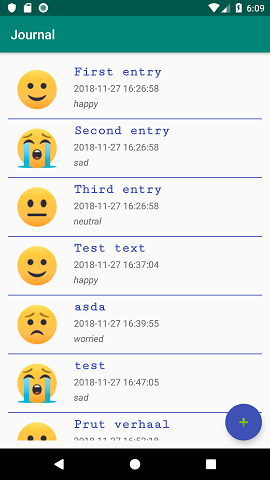
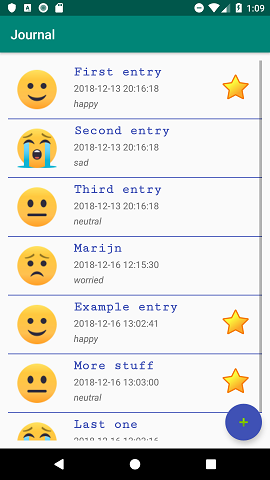
Final commit

diff --git a/app/src/main/java/com/example/marijn/journal/DetailActivity.java b/app/src/main/java/com/example/marijn/journal/DetailActivity.java
@@ -1,9 +1,13 @@
 package com.example.marijn.journal;
 
 import android.content.Intent;
+import android.content.SharedPreferences;
+import android.support.v4.content.ContextCompat;
 import android.support.v7.app.AppCompatActivity;
 import android.os.Bundle;
+import android.widget.CompoundButton;
 import android.widget.TextView;
+import android.widget.ToggleButton;
 
 /**
  * Marijn Meijering <m.h.j.meijering@uva.nl>
@@ -12,24 +16,64 @@ import android.widget.TextView;
  */
 public class DetailActivity extends AppCompatActivity {
 
+    private ToggleButton favouriteButton;
+    private String titleText, timeText;
+
     @Override
     protected void onCreate(Bundle savedInstanceState) {
         super.onCreate(savedInstanceState);
         setContentView(R.layout.activity_detail);
 
-        // Get the ID's of various TextView and an ImageView
+        // Get the ID's of various TextViews, an ImageView and a ToggleButton
         TextView title = findViewById(R.id.titleText);
         TextView content = findViewById(R.id.contentText);
         TextView timestamp = findViewById(R.id.timestampText);
         TextView mood = findViewById(R.id.moodText);
+        favouriteButton = findViewById(R.id.favouriteButton);
 
         // Retrieve the entry information from the previous activity
         Intent intent = getIntent();
 
+        titleText = intent.getStringExtra("title");
+        timeText = intent.getStringExtra("timestamp");
+
         // Set the title, content, date and mood
-        title.setText(intent.getStringExtra("title"));
+        title.setText(titleText);
         content.setText(intent.getStringExtra("content"));
-        timestamp.setText(intent.getStringExtra("timestamp"));
+        timestamp.setText(timeText);
         mood.setText(intent.getStringExtra("mood"));
+
+        // Set an on favourite change listener
+        favouriteButton.setOnCheckedChangeListener(new ProfileFavourite());
+
+        // Get a previously stored favourite boolean (title+time for a unique combination)
+        SharedPreferences prefsFav = getSharedPreferences("favourite", MODE_PRIVATE);
+        Boolean isFav = prefsFav.getBoolean((titleText + timeText).toLowerCase(), false);
+
+        // Set the previously stored favourite state
+        if (isFav) { // If this person was a favourite
+            favouriteButton.setBackgroundDrawable(ContextCompat.getDrawable(getApplicationContext(), R.drawable.yellow_star));
+
+        } else { // If this person was NOT a favourite
+            favouriteButton.setBackgroundDrawable(ContextCompat.getDrawable(getApplicationContext(), R.drawable.grey_star));
+        }
+    }
+
+    // Create an on favourite click listener
+    // With help from: https://stackoverflow.com/questions/34980309/
+    private class ProfileFavourite implements CompoundButton.OnCheckedChangeListener {
+        @Override
+        public void onCheckedChanged(CompoundButton buttonView, boolean isFavourite) {
+            if (isFavourite) { // If favourited
+                favouriteButton.setBackgroundDrawable(ContextCompat.getDrawable(getApplicationContext(), R.drawable.yellow_star));
+            } else { // If unfavourited
+                favouriteButton.setBackgroundDrawable(ContextCompat.getDrawable(getApplicationContext(), R.drawable.grey_star));
+            }
+
+            // Edit the old favourite Boolean and store the new value
+            SharedPreferences.Editor editor = getSharedPreferences("favourite", MODE_PRIVATE).edit();
+            editor.putBoolean((titleText + timeText).toLowerCase(), isFavourite);
+            editor.apply();
+        }
     }
 }

diff --git a/app/src/main/java/com/example/marijn/journal/MainActivity.java b/app/src/main/java/com/example/marijn/journal/MainActivity.java
@@ -17,6 +17,7 @@ public class MainActivity extends AppCompatActivity {
 
     private EntryDatabase db; // Variable used to hold the database
     private EntryAdapter adapter; // Variable used to hold the adapter
+    private ListView list; // Variable used to hold the ListView id
 
     @Override
     protected void onCreate(Bundle savedInstanceState) {
@@ -30,7 +31,7 @@ public class MainActivity extends AppCompatActivity {
         adapter = new EntryAdapter(MainActivity.this, db.selectAll());
 
         // Get the ListView ID
-        ListView list = findViewById(R.id.journalView);
+        list = findViewById(R.id.journalView);
 
         // Attach the adapter to the list view
         list.setAdapter(adapter);
@@ -38,6 +39,14 @@ public class MainActivity extends AppCompatActivity {
         // Instantiate an on list item click and long click listener
         list.setOnItemClickListener(new ListItemClickListener());
         list.setOnItemLongClickListener(new ListItemLongClickListener());
+    }
+
+    @Override // After a pause or restart
+    public void onResume() {
+        super.onResume();
+        // Refresh the list view
+        EntryAdapter updateAdapter = new EntryAdapter(MainActivity.this, db.selectAll());
+        list.setAdapter(updateAdapter);
     }
 
     // On add entry button click, go to next activity

diff --git a/app/src/main/java/com/example/marijn/journal/EntryAdapter.java b/app/src/main/java/com/example/marijn/journal/EntryAdapter.java
@@ -1,6 +1,7 @@
 package com.example.marijn.journal;
 
 import android.content.Context;
+import android.content.SharedPreferences;
 import android.database.Cursor;
 import android.view.View;
 import android.widget.ImageView;
@@ -31,11 +32,20 @@ public class EntryAdapter extends ResourceCursorAdapter {
         TextView moodText = view.findViewById(R.id.moodText);
         TextView dateText = view.findViewById(R.id.dateText);
         ImageView image = view.findViewById(R.id.moodImage);
+        ImageView favourite = view.findViewById(R.id.favouriteView);
 
         // Set the title, date, mood string and mood image
         image.setImageResource(moodID);
         titleText.setText(title);
         moodText.setText(mood);
         dateText.setText(timestamp);
+
+        // Get the favourite status (boolean)
+        SharedPreferences prefsFav = context.getSharedPreferences("favourite", 0);
+        Boolean isFav = prefsFav.getBoolean((title + timestamp).toLowerCase(), false);
+
+        if (isFav) { // If it is a favourite person, make yellow star visible
+            favourite.setVisibility(View.VISIBLE);
+        }
     }
 }

diff --git a/app/src/main/java/com/example/marijn/journal/InputActivity.java b/app/src/main/java/com/example/marijn/journal/InputActivity.java
@@ -97,6 +97,7 @@ public class InputActivity extends AppCompatActivity {
         }
     }
 
+
     // Grey out an image view
     // Source: https://stackoverflow.com/questions/38186885/
     private void greyOutImage(ImageView image) {
